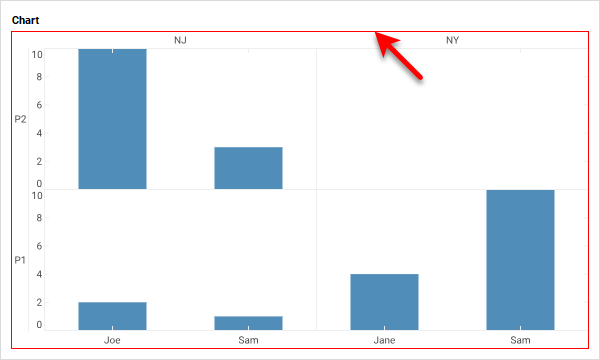
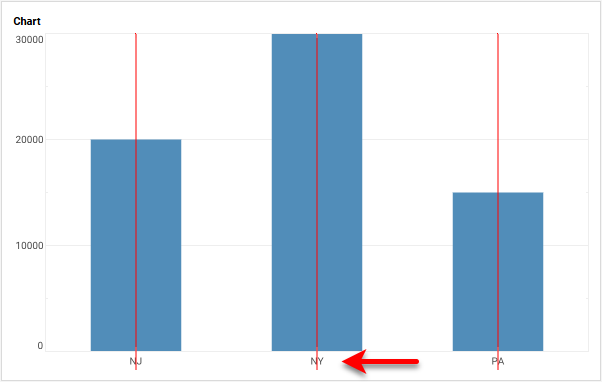
add AxisSpecSetFacetGrid.png

diff --git a/InetSoftUserDocumentation/modules/scriptexample/partials/AxisSpecSetFacetGrid1.js b/InetSoftUserDocumentation/modules/scriptexample/partials/AxisSpecSetFacetGrid1.js
@@ -1,0 +1,12 @@
+dataset = [["State","Quantity"],["NJ",20000],["NY",30000],["PA",15000]]; //<1>
+graph = new EGraph();
+var elem = new IntervalElement("State", "Quantity");
+var xscale = new CategoricalScale("State");
+var aspec = new AxisSpec(); //<2>
+aspec.setGridStyle(Chart.THIN_LINE); //<3>
+aspec.setGridOnTop(true);
+aspec.setGridColor(java.awt.Color(0xFF0000));
+aspec.setFacetGrid(true); //<4>
+xscale.setAxisSpec(aspec);
+graph.setScale("State", xscale);
+graph.addElement(elem);

diff --git a/InetSoftUserDocumentation/modules/scriptexample/partials/AxisSpecSetFacetGrid2.js b/InetSoftUserDocumentation/modules/scriptexample/partials/AxisSpecSetFacetGrid2.js
@@ -1,0 +1,6 @@
+var coord = graph.getCoordinate(); //<1>
+var scale = coord.getXScale(); //<2>
+var spec = scale.getAxisSpec(); //<3>
+// Compact syntax: var spec = graph.getCoordinate().getXScale().getAxisSpec();
+
+spec.setFacetGrid(false);